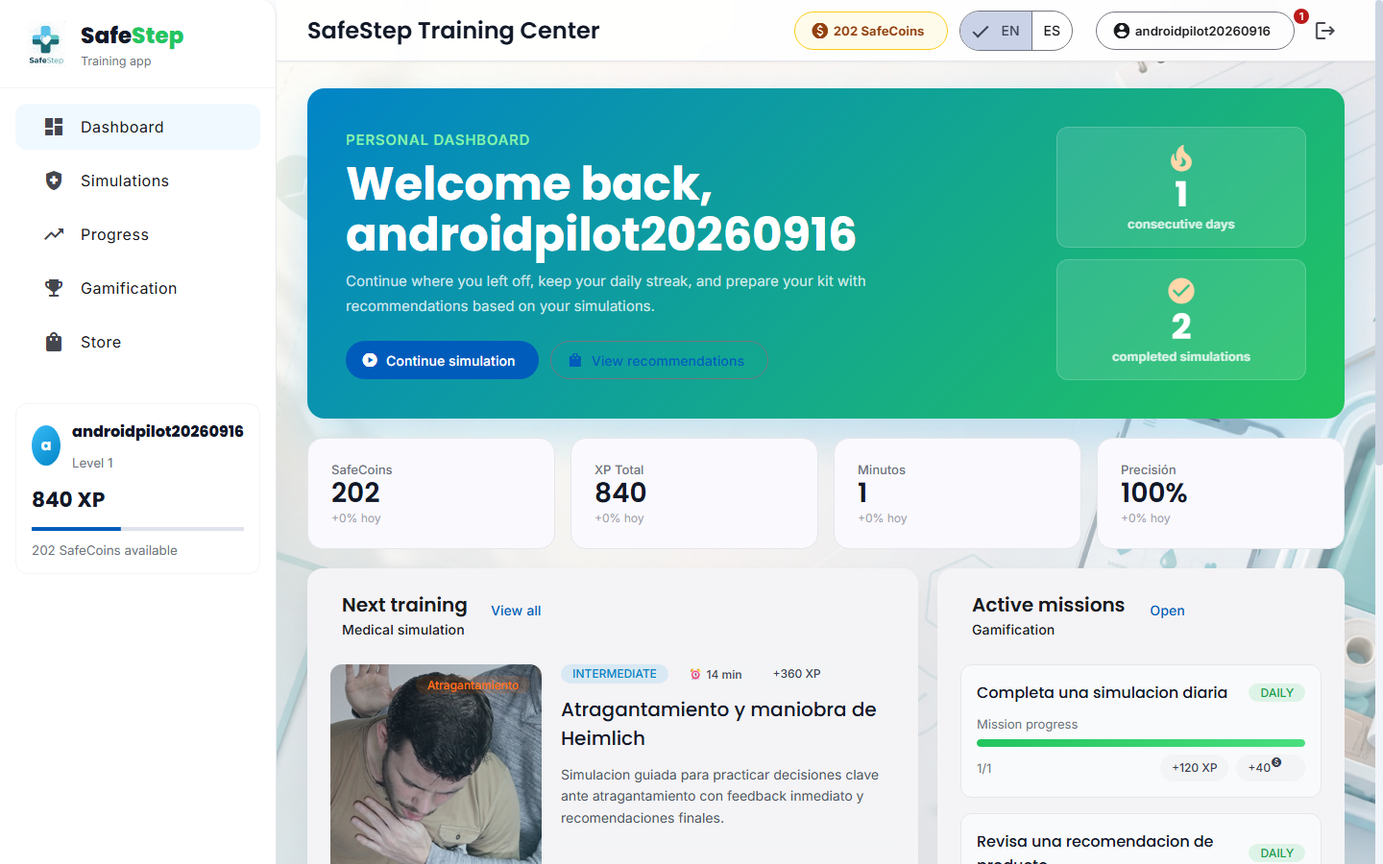
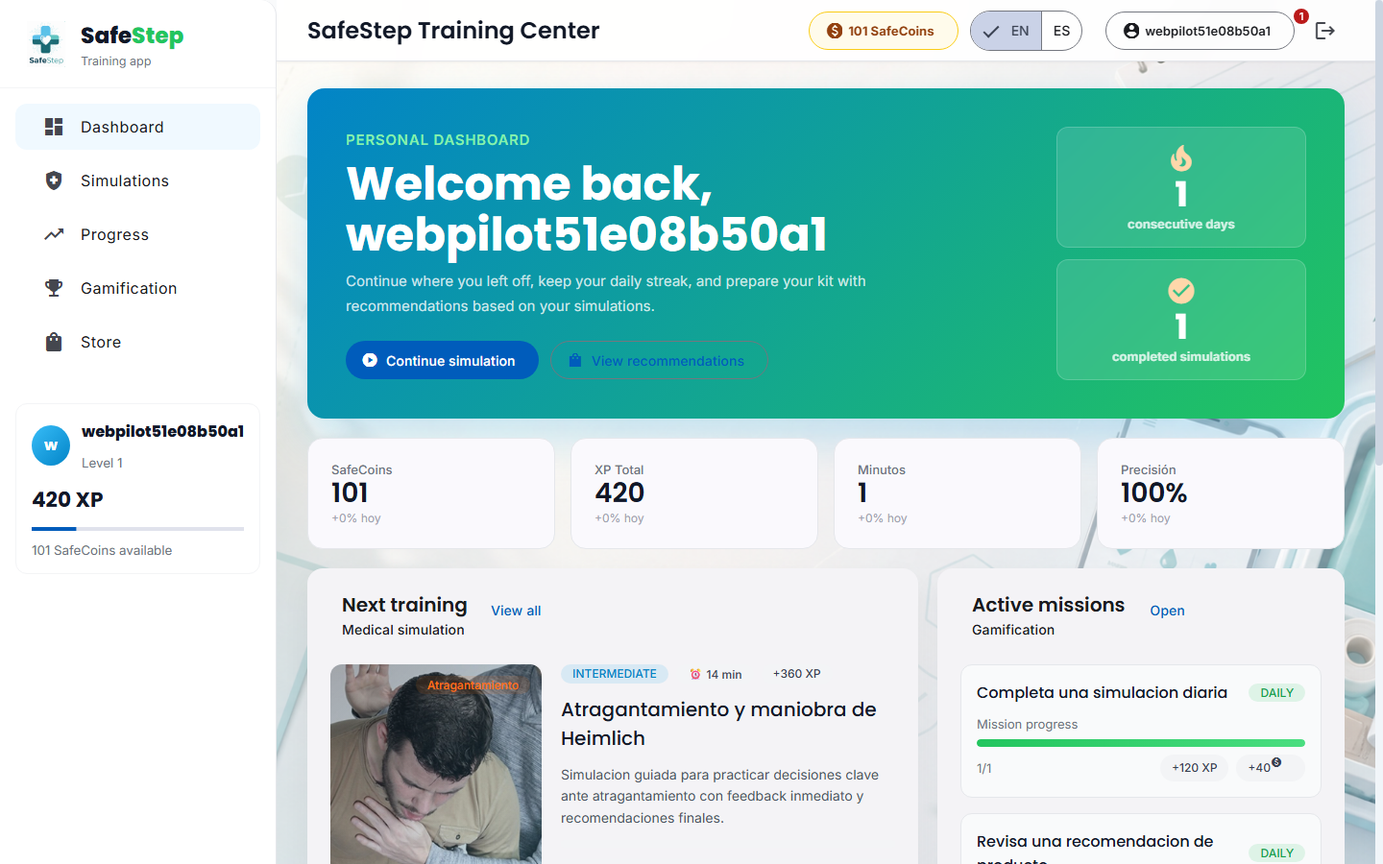
docs: update chapter 5

diff --git a/markdown/content/chapter-5/5-2-Product-Implementation-Deployment.md b/markdown/content/chapter-5/5-2-Product-Implementation-Deployment.md
@@ -29,39 +29,80 @@ La siguiente secuencia es un **backlog de implementación**, no una retrospectiv
 | Sprint nuevo | Goal y criterio de aceptación propuestos | Historias/tareas principales | Evidencia de cierre exigida | Estado |
 |---|---|---|---|---|
 | 1 — línea base y contratos | Poder compilar y probar web/API, identificar desviaciones y acordar contratos Android. | Auditoría de repositorios, secretos, OpenAPI, i18n/a11y, pruebas existentes, tablero. | Board, planning, LACX, PR, logs de pruebas, lista priorizada de defectos. | En curso; el board y la asignación son pendientes. |
-| 2 — Android e integración | Un usuario puede registrarse, practicar una simulación y consultar su progreso/catálogo en Android. | App Kotlin/Compose, cliente API, pruebas unitarias/UI, manejo de errores. | APK de prueba, captura o video en dispositivo, tests y commits. | En curso; no declarar completado antes de ejecutar en dispositivo. |
+| 2 — Android e integración | Un usuario puede registrarse, practicar una simulación y consultar su progreso/catálogo en Android. | App Kotlin/Compose, cliente API, pruebas unitarias/UI, manejo de errores. | APK de prueba, captura o video en dispositivo, tests y commits. | Recorrido local ejecutado en emulador; faltan board, PR, pruebas de errores y despliegue compartido. |
 | 3 — estabilización y entrega | Los productos principales funcionan en los destinos publicados y su evidencia es trazable. | Correcciones, despliegues, acuerdo SaaS aprobado, seguridad, video actual. | URL verificadas, smoke tests, capturas, video, colaboración y retrospectiva. | Pendiente. |
 
 **Plantilla obligatoria por sprint.** Registrar número y fechas; objetivo SMART; *velocity* y suma de puntos; tabla `Story ID | Título | Task ID | Descripción | Horas | Responsable | Estado`; URL pública y captura del board; tabla de commits `Repositorio | Rama | Commit | Mensaje | Fecha`; pruebas asociadas a historia; capturas y video de ejecución; endpoints OpenAPI añadidos; despliegue; LACX y retrospectiva. No inferir horas o puntos a partir de la cantidad de commits. Las tareas de seguridad y documentación que no dependan de una historia deben etiquetarse como tareas técnicas.
 
-**Registro técnico inicial — 16/09/2026:** `mvn test -q` terminó con **41 pruebas, 0 fallos, 0 errores** en 14 suites del backend. `npm test -- --watch=false` terminó con **2 pruebas aprobadas** en una suite del frontend. `npm run build` generó el frontend, con aviso: el bundle inicial excede en 30,08 kB el presupuesto de 700 kB. `npm ci` reportó 24 alertas de dependencias (1 baja, 12 moderadas, 11 altas); deben revisarse y priorizarse, sin aplicar `npm audit fix` a ciegas. Estos resultados locales no sustituyen un pipeline ni una prueba de extremo a extremo.
+**Sprint Planning y trazabilidad.** Los trabajos técnicos que siguen se ejecutaron para preparar el producto, pero no se atribuyen retroactivamente a una reunión o Sprint formal. Antes de incorporar cada Sprint a la entrega, el equipo completará el cuadro exigido por el statement: `Date | Time | Location | Prepared By | Attendees | Sprint anterior: review | Sprint anterior: retrospective | Sprint Goal | Velocity | Sum of Story Points`. También incorporará la URL pública y una captura del board, la matriz LACX `Integrante y GitHub | Aspecto 1 L/C | Aspecto 2 L/C`, y la tabla de tareas `Story ID | Story Title | Task ID | Task Title | Description | Estimation (Hours) | Assigned To | Status`. Los campos de personas, horas, puntos y fechas permanecen sin asignar hasta la planificación real.
+
+### Sprint 1 — línea base y contratos
+
+*Goal propuesto:* que el equipo pueda reproducir la compilación y las pruebas de web/API, y que una cuenta común no pueda modificar catálogos. El evento de confirmación es `mvn package`, `npm run build`, pruebas automatizadas y smoke test local aprobados. La fecha de cierre, la velocidad y las historias seleccionadas deben acordarse en el board; las tareas siguientes aún no constituyen un Sprint Backlog aprobado.
+
+| Task técnica propuesta | Resultado comprobado al 16/09/2026 | Pendiente para cierre del Sprint |
+|---|---|---|
+| Baseline web/API | 42 pruebas API y 2 web aprobadas; ambos productos compilan. | Vincular tests con historias y registrar commits/PR. |
+| Contratos y persistencia | Smoke test local de alta, sesión, simulaciones, intento, progreso, catálogo y OpenAPI. | Publicar entorno de prueba y ejemplos de request/response por endpoint. |
+| Seguridad de contenido | Mutaciones administrativas restringidas en API y rutas/controles ocultos en web para `ROLE_USER`. | Revisar permisos de administrador y ejecutar análisis estático. |
+| Deuda y riesgos | Inventario de dependencias, i18n parcial, bundle sobre presupuesto y secretos históricos. | Priorizar en el board; rotar secretos en el proveedor. |
+
+### Sprint 2 — Android e integración
+
+*Goal propuesto:* que una persona pueda iniciar sesión, realizar una práctica y consultar su progreso desde Android con datos persistidos. Un recorrido con cuenta ficticia en emulador y API/PostgreSQL locales confirmó el flujo básico; no equivale a cierre de Sprint sin planificación, pruebas negativas y revisión del equipo.
+
+| Task técnica propuesta | Resultado comprobado al 16/09/2026 | Pendiente para cierre del Sprint |
+|---|---|---|
+| Cliente Android Kotlin/Compose | Login, registro, listado, detalle, resultado, progreso y catálogo implementados. | Asociar nuevas historias y publicar repositorio remoto. |
+| Pruebas y artefacto | 2 pruebas unitarias, 1 prueba de UI y APK debug reproducible. | Añadir escenarios de errores/red y PR revisado. |
+| Integración local | Capturas de recorrido con API/PostgreSQL local. | Repetir contra entorno compartido, registrar versión y test de sistema. |
+
+### Sprint 3 — estabilización y entrega
+
+*Goal propuesto:* ofrecer landing, web, API y APK de prueba en versiones identificables, con recorrido y evidencia reproducibles para revisión del docente. Su aceptación requerirá URL, commit, fecha, capturas, pruebas de flujos positivos/negativos y video nuevo; actualmente está **pendiente**. Se priorizarán despliegue, accesibilidad/i18n, vulnerabilidades, términos del piloto aprobados, colaboración, retrospectiva y testimonio consentido.
+
+**Evidencia que debe añadirse por cada Sprint.** (a) *Development y Testing Suite Evidence:* tablas separadas con `Repository | Branch | Commit Id | Commit Message | Commit Message Body | Committed on`; relacionar pruebas unitarias con clases y comportamientos, e integración/BDD con historias y archivos `.feature`. (b) *Execution Evidence:* capturas de vistas y video de navegación del Sprint. (c) *Services Documentation Evidence:* para cada endpoint, verbo, ruta, parámetros, ejemplo de respuesta, enlace OpenAPI local o publicado y captura con datos de muestra; incluir commits del backend. (d) *Software Deployment Evidence:* cambios de configuración y capturas del proveedor para landing, web y API. (e) *Team Collaboration Insights:* analíticas GitHub del período, interpretación por integrante, LACX y retrospectiva. Se completarán con hechos y enlaces del Sprint real, no con cifras heredadas.
+
+**Registro técnico inicial — 16/09/2026:** `mvn test -q` terminó con **42 pruebas, 0 fallos, 0 errores** en 14 suites del backend y `mvn package -q` generó el artefacto correctamente. `npm test -- --watch=false` terminó con **2 pruebas aprobadas** en una suite del frontend. `npm run build` generó el frontend, con aviso: el bundle inicial excede en 30,28 kB el presupuesto de 700 kB. `npm ci` reportó 24 alertas de dependencias (1 baja, 12 moderadas, 11 altas); deben revisarse y priorizarse, sin aplicar `npm audit fix` a ciegas. Estos resultados locales no sustituyen un pipeline.
 
 ## 5.2.2. Implemented Landing Page Evidence
 
-La landing actual incluye `index.html`, `about.html`, CSS y JavaScript, secciones de propuesta de valor, simulaciones, gamificación, catálogo y preguntas frecuentes. La implementación es responsive según su código y antecedentes; **aún falta capturar y probar la versión de este repositorio** en anchuras desktop y móvil y verificar la URL pública de la organización actual.
+La landing actual incluye `index.html`, `about.html`, CSS y JavaScript, secciones de propuesta de valor, simulaciones, gamificación, catálogo y preguntas frecuentes. Se revisaron sus textos para retirar cifras de éxito, testimonios, certificaciones y disponibilidad sin respaldo. Los precios y productos visibles son ilustrativos para el piloto y los enlaces legales permanecen marcados «en revisión». Se capturó la versión local en Chrome a 1440 × 900 y 390 × 844 píxeles el 16/09/2026. **No se ha comprobado que estas capturas correspondan a la URL pública.**
 
 | Evidencia a conservar | Relación con el producto | Estado |
 |---|---|---|
-| Capturas del hero, navegación, simulaciones, FAQ y footer en desktop/móvil, con dimensiones y fecha | Historias de landing US47–US53 y relacionadas | Pendiente de captura actual |
+| Capturas del hero en [desktop](../../assets/images/chapter-5/landing-local-desktop-2026-09-16.png) y [móvil](../../assets/images/chapter-5/landing-local-mobile-2026-09-16.png), con dimensiones y fecha | Historias de landing US47–US53 y relacionadas | Capturadas localmente; faltan recorridos de navegación, FAQ y footer. |
 | URL y commit de publicación; comprobación de enlaces CTA hacia la web | Despliegue y recorrido del visitante | Pendiente de verificación |
 | Cambio de idioma `en`/`es`, semántica, foco y teclado | i18n/a11y exigidos por el statement | Pendiente; los HTML actuales declaran `lang="es"` |
 | Enlace accesible a Terms and Conditions tras aprobación del texto | Acuerdo SaaS | Pendiente de revisión y publicación |
 
 Las imágenes `landing-deployed.png` y otras capturas de `assets/images/chapter-5` pertenecen al informe anterior. Pueden ilustrar el As-Is, pero no se usarán como prueba de un despliegue nuevo sin verificar que corresponden al commit y la URL actuales.
 
+![Landing SafeStep en Chrome, anchura desktop](../../assets/images/chapter-5/landing-local-desktop-2026-09-16.png)
+
+*Figura 5.1. Landing local en escritorio, 16/09/2026; no es evidencia de publicación.*
+
+![Landing SafeStep en Chrome, anchura móvil](../../assets/images/chapter-5/landing-local-mobile-2026-09-16.png)
+
+*Figura 5.2. Landing local en viewport móvil, 16/09/2026.*
+
 ## 5.2.3. Implemented Frontend-Web Application Evidence
 
-El repositorio actual implementa rutas de autenticación, dashboard, simulaciones, progreso/estadísticas, gamificación y comercio. Contiene recursos `en.json` y `es.json`, y una configuración de API para desarrollo y producción. La compilación y dos pruebas unitarias pasaron localmente el 16/09/2026; todavía falta demostrar los flujos integrados contra el backend y el despliegue actual.
+El repositorio actual implementa rutas de autenticación, dashboard, simulaciones, progreso/estadísticas, gamificación y comercio. Contiene recursos `en.json` y `es.json`, y una configuración de API para desarrollo y producción. La compilación y dos pruebas unitarias pasaron localmente el 16/09/2026. En Chrome se inició sesión con una cuenta ficticia contra la API y PostgreSQL locales: el dashboard mostró un intento previamente registrado mediante la API, con 1 simulación completada, 420 XP y 101 monedas. Se verificó además que esa cuenta `ROLE_USER` no ve el control de administración y que `/app/simulations/admin` redirige al dashboard. Esto **no** equivale a un E2E completo de resolución desde la interfaz ni a un despliegue verificado.
 
 | Flujo a evidenciar | Captura y comprobación requeridas | Estado |
 |---|---|---|
-| Registro/inicio de sesión y cierre | Formulario, errores de validación, respuesta de la API, ruta protegida | Código disponible; integración pendiente de prueba |
-| Selección y resolución de simulación | Catálogo, detalle, opciones, resultado, persistencia del intento | Código disponible; E2E pendiente |
-| Progreso, gamificación y estadísticas | Valores del usuario antes/después de un intento | Código disponible; E2E pendiente |
+| Registro/inicio de sesión y cierre | Formulario, errores de validación, respuesta de la API, ruta protegida | Inicio de sesión local comprobado; faltan errores y cierre de sesión en navegador. |
+| Selección y resolución de simulación | Catálogo, detalle, opciones, resultado, persistencia del intento | [Lista local capturada](../../assets/images/chapter-5/web-simulations-local-2026-09-16.png); resolución web E2E pendiente. |
+| Progreso, gamificación y estadísticas | Valores del usuario antes/después de un intento | [Dashboard local](../../assets/images/chapter-5/web-dashboard-local-2026-09-16.png) refleja un intento persistido por API; faltan pruebas de todas las vistas. |
 | Catálogo y checkout de prueba | Producto, carrito, redirección/resultado de Stripe en modo prueba | Código disponible; no usar pagos reales |
-| i18n, accesibilidad y responsive | Capturas `en`/`es`, teclado, foco, lector de pantalla y anchuras móvil/desktop | Revisión pendiente |
+| i18n, accesibilidad y responsive | Capturas `en`/`es`, teclado, foco, lector de pantalla y anchuras móvil/desktop | Capturas [ES](../../assets/images/chapter-5/web-dashboard-local-2026-09-16.png), [EN](../../assets/images/chapter-5/web-dashboard-en-local-2026-09-16.png), [login desktop](../../assets/images/chapter-5/web-login-local-desktop-2026-09-16.png) y [login móvil](../../assets/images/chapter-5/web-login-local-mobile-2026-09-16.png); traducción inglesa parcial y auditoría a11y pendientes. |
 
 Antes de registrar «desplegado», se debe asociar cada captura con commit, URL, fecha, navegador y datos de prueba. El aviso del presupuesto del bundle y las alertas de dependencias son hallazgos de calidad pendientes, no fallas ocultas.
+
+![Dashboard web local con progreso de una cuenta de prueba](../../assets/images/chapter-5/web-dashboard-local-2026-09-16.png)
+
+*Figura 5.3. Dashboard web servido localmente en Chrome, con API y PostgreSQL locales; cuenta ficticia y un intento de prueba.*
 
 ## 5.2.4. Acuerdo de Servicio - SaaS
 
@@ -85,39 +126,47 @@ Se inició un cliente **Android nativo** en el repositorio Git local `safestept-
 |---|---|
 | Código y correspondencia con historias | Código local implementado; asignar IDs de historias Android y PR cuando el equipo incorpore el repositorio al tablero. |
 | Pruebas del cálculo de puntuación | **2 pruebas unitarias aprobadas** con `testDebugUnitTest` el 16/09/2026. En Windows se ejecutaron desde una unidad `subst` ASCII debido a la ruta local con caracteres no ASCII. |
[1 lines of base64/hex data omitted]
-| Ejecución en emulador/dispositivo | **1 prueba de interfaz aprobada** en Pixel_7_sem2 (Android 13); instalación y arranque comprobados. [Captura de pantalla inicial](../../assets/images/chapter-5/android-login-2026-09-16.png). Pendientes las capturas de simulación, resultado, progreso, catálogo y estados de error con API real. |
[1 lines of base64/hex data omitted]
+| Ejecución en emulador/dispositivo | **1 prueba de interfaz aprobada** en Pixel_7_sem2 (Android 13). Con cuenta ficticia se ejecutó inicio de sesión, listado, detalle, resolución, resultado, progreso y catálogo frente a la API con PostgreSQL locales. Se conservan [inicio](../../assets/images/chapter-5/android-login-2026-09-16.png), [listado](../../assets/images/chapter-5/android-simulations-2026-09-16.png), [detalle](../../assets/images/chapter-5/android-simulation-detail-2026-09-16.png), [resultado](../../assets/images/chapter-5/android-result-2026-09-16.png), [progreso](../../assets/images/chapter-5/android-progress-2026-09-16.png) y [catálogo](../../assets/images/chapter-5/android-catalog-2026-09-16.png). Faltan pruebas de errores y API pública. |
 | Publicación del repositorio y release | Pendiente de crear remoto de la organización, revisión por PR y distribución controlada del APK. |
 
-La decisión del equipo es **Android solamente**. Los prototipos iOS del capítulo IV no demuestran una app iOS implementada; esta limitación y su posible impacto en la evaluación deben validarse con el docente. Una compilación sin ejecución integrada tampoco demuestra que el flujo completo funcione con PostgreSQL y la API desplegada.
+La decisión del equipo es **Android solamente**. Los prototipos iOS del capítulo IV no demuestran una app iOS implementada; esta limitación y su posible impacto en la evaluación deben validarse con el docente. El recorrido Android sí se ejecutó contra PostgreSQL local, pero falta repetirlo contra la versión que se publique.
 
 ![Pantalla inicial del cliente Android en emulador Pixel 7, sin datos de usuario](../../assets/images/chapter-5/android-login-2026-09-16.png)
 
-*Figura 5.1. Pantalla inicial de SafeStep Android, compilación debug local del 16/09/2026. La URL `10.0.2.2` apunta al host del emulador y no demuestra un backend público.*
+*Figura 5.4. Pantalla inicial de SafeStep Android, compilación debug local del 16/09/2026. La URL `10.0.2.2` apunta al host del emulador y no demuestra un backend público.*
+
+![Resultado de una simulación en Android](../../assets/images/chapter-5/android-result-2026-09-16.png)
+
+*Figura 5.5. Resultado de una simulación ejecutada desde Android con datos de prueba y API local.*
+
+![Progreso obtenido en Android después de las simulaciones](../../assets/images/chapter-5/android-progress-2026-09-16.png)
+
+*Figura 5.6. Progreso consultado por Android desde la API local; no es una medición con participantes reales.*
 
 ## 5.2.6. Implemented RESTful API and/or Serverless Backend Evidence
 
-El backend actual es una API Spring Boot con persistencia PostgreSQL, recursos IAM, perfiles, simulaciones e intentos, analítica, gamificación y comercio. Los controladores y modelos están en el [repositorio backend](https://github.com/1ASI0732-2620-9090-Grupo-4/safestept-backend). Se ejecutaron 41 pruebas de backend sin fallos el 16/09/2026; esto verifica los casos cubiertos por esas pruebas, **no** el despliegue, los pagos ni todos los endpoints. Para cada sprint se añadirán capturas de peticiones con datos ficticios, respuesta esperada y respuesta real, referencia a commit y entorno.
+El backend actual es una API Spring Boot con persistencia PostgreSQL, recursos IAM, perfiles, simulaciones e intentos, analítica, gamificación y comercio. Los controladores y modelos están en el [repositorio backend](https://github.com/1ASI0732-2620-9090-Grupo-4/safestept-backend). Se ejecutaron **42 pruebas sin fallos** el 16/09/2026. Un smoke test adicional contra PostgreSQL local creó una cuenta ficticia (201), inició sesión con rol `ROLE_USER`, leyó 18 simulaciones y 32 productos, registró un intento (201), recuperó un historial y progreso con una simulación completada, obtuvo OpenAPI (200) y confirmó que el borrado de una simulación con ese usuario devuelve **403**. El script reproducible es `scripts/smoke-api.ps1` del backend. Estos resultados verifican ese entorno local, **no** el despliegue, pagos ni todos los endpoints.
 
 La configuración de producción ahora requiere `DATABASE_USER`, `DATABASE_PASSWORD` y `JWT_SECRET` por variables de entorno; no se documentan valores. El Dockerfile compila con pruebas y usa perfil de producción. Debe verificarse su construcción en el pipeline y la conectividad con una base de datos de prueba antes de publicar. Los secretos que aparecieron antes en archivos versionados deben **rotarse** y retirarse del proveedor; el cambio del archivo actual no borra el historial de Git.
 
 **Limitación de integridad:** el contrato de intentos acepta `score` y `correctSteps` calculados por el cliente. Antes de usar estas métricas como resultado experimental o para recompensas sensibles, el backend debe verificar las respuestas contra la simulación o establecer otro mecanismo de validación; las pruebas actuales no demuestran esa integridad.
 
-| Recorrido a comprobar | Prueba y evidencia pendiente |
+| Recorrido a comprobar | Estado y evidencia |
 |---|---|
-| Alta, inicio, renovación y cierre de sesión | Respuestas 2xx y errores 4xx; ausencia de datos sensibles en logs/capturas. |
-| Consultar simulación, enviar intento, leer progreso | Persistencia real, puntuación, perfil del usuario y comportamiento ante error de red. |
+| Alta, inicio, renovación y cierre de sesión | Alta 201 e inicio de sesión comprobados localmente; renovación, cierre y errores 4xx pendientes en este recorrido. |
+| Consultar simulación, enviar intento, leer progreso | Consulta y persistencia en PostgreSQL local comprobadas con usuario ficticio; pendiente error de red y validación del puntaje en servidor. |
 | Catálogo y pago de prueba | Producto, orden y webhook con credenciales **test**; nunca pagos reales. |
-| Administrar contenido | Autorización por rol y rechazo de usuario normal. |
+| Administrar contenido | Mutaciones de simulaciones, productos y misiones restringidas a `ROLE_ADMIN` en API; prueba de integración y smoke test confirman 403 para usuario normal. Falta comprobar cada acción de administrador legítimo. |
 
 ## 5.2.7. RESTful API documentation
 
-La documentación OpenAPI se genera mediante `springdoc`; la ruta esperada en una instancia activa es `/swagger-ui/index.html` y el JSON se obtiene en `/v3/api-docs`. Antes de colocar enlaces públicos, abrir esas rutas en el despliegue actual y registrar URL, fecha, versión y captura. La matriz siguiente se basa en controladores del código, no en una API publicada comprobada.
+La documentación OpenAPI se genera mediante `springdoc`; la ruta esperada en una instancia activa es `/swagger-ui/index.html` y el JSON se obtiene en `/v3/api-docs`. Este JSON devolvió **200 en la instancia local** el 16/09/2026. Antes de colocar enlaces públicos, abrir esas rutas en el despliegue actual y registrar URL, fecha, versión y captura. La matriz siguiente se basa en controladores del código, no en una API publicada comprobada.
 
 | Método y ruta | Entrada principal | Respuesta funcional | Uso / prueba asociada |
 |---|---|---|---|
 | `POST /api/v1/authentication/sign-up` | Usuario y contraseña | Cuenta creada o error de validación | Registro web/Android; alta pública solo `ROLE_USER`. |
-| `POST /api/v1/authentication/sign-in` | Credenciales | Tokens de acceso/renovación | Autenticación y acceso a rutas protegidas. |
+| `POST /api/v1/authentication/sign-in` | Credenciales | Tokens de acceso/renovación y roles | Autenticación y acceso a rutas protegidas. |
 | `POST /api/v1/authentication/refresh-token` | Refresh token | Nuevo par de tokens o rechazo | Continuidad de sesión. |
 | `POST /api/v1/authentication/logout` | Refresh token | Revocación o rechazo | Cierre de sesión. |
 | `GET /api/v1/simulations` | Consulta | Lista de simulaciones | Catálogo de práctica web/Android. |

diff --git a/markdown/content/chapter-5/5-1-software-configuration-management.md b/markdown/content/chapter-5/5-1-software-configuration-management.md
@@ -17,7 +17,7 @@ La tabla distingue productos constatados en el código o en este entorno de herr
 | Persistencia | PostgreSQL; cliente local 18.4 | Datos transaccionales de la API | [PostgreSQL](https://www.postgresql.org) | El proveedor de producción debe confirmarse |
 | Documentación API | springdoc OpenAPI 3.0.3 / Swagger UI | Contratos y prueba interactiva de endpoints | [OpenAPI](https://spec.openapis.org/oas/latest.html) | Dependencia declarada en `pom.xml`; URL pública pendiente de verificar |
 | Pruebas web/API | Vitest 4.0.8; Spring Boot Starter Test / JUnit | Pruebas automatizadas y resultados reproducibles | [Vitest](https://vitest.dev); [JUnit](https://junit.org/junit5/) | Dependencias declaradas; resultados en 5.2 y capítulo VI |
-| Android nativo | SDK 37, Android Gradle Plugin 9.3.2, Kotlin Compose Compiler 2.3.21, Gradle 9.5 | Implementar y probar la app móvil | Proyecto local `safestept-android`; [Android Developers](https://developer.android.com) | Proyecto creado; ejecución integrada y publicación pendientes |
+| Android nativo | SDK 37, Android Gradle Plugin 9.3.2, Kotlin Compose Compiler 2.3.21, Gradle 9.5 | Implementar y probar la app móvil | Proyecto local `safestept-android`; [Android Developers](https://developer.android.com) | Compilación, pruebas y ejecución con API local verificadas; publicación pendiente |
 | Control de versiones | Git/GitHub | Ramas, PR, commits y versiones | [Git](https://git-scm.com); [GitHub](https://github.com) | Cuatro repositorios previos y proyecto Android local disponibles |
 | Despliegue | Docker y configuración de GitHub Pages del frontend | Empaquetado y publicación | [Docker](https://docs.docker.com); [GitHub Pages](https://pages.github.com) | Los destinos actuales deben verificarse antes de afirmar despliegue |
 
@@ -51,6 +51,8 @@ Las claves, nombres de clases, métodos, rutas y mensajes técnicos se escriben 
 | Kotlin/Android | Los mismos criterios de nombres Kotlin; estados UI separados del acceso a datos; textos en recursos localizables; pruebas unitarias y de interfaz Compose antes del APK. |
 | SQL | Tablas/columnas en `snake_case`, PK y FK explícitas, sin contraseñas ni datos personales en scripts de ejemplo. |
 | Gherkin | `Feature`, `Scenario`, `Given/When/Then` con comportamiento observable, uno por intención de negocio; enlazar cada escenario a una User Story. Los archivos `.feature` aún no están presentes en los repositorios actuales. |
+
+Las referencias adoptadas son [Google HTML/CSS Style Guide](https://google.github.io/styleguide/htmlcssguide.html) y [Google JavaScript Style Guide](https://google.github.io/styleguide/jsguide.html) para la landing; [Angular coding style guide](https://angular.dev/style-guide) y la [documentación TypeScript](https://www.typescriptlang.org/docs/handbook/) para la web; [Google Java Style Guide](https://google.github.io/styleguide/javaguide.html) para la API; [Android Kotlin style guide](https://developer.android.com/kotlin/style-guide) para Android; y la [referencia Gherkin de Cucumber](https://cucumber.io/docs/gherkin/reference/) para escenarios BDD. Adoptarlas no equivale a afirmar que todos los archivos actuales ya las cumplen: esa verificación pertenece a las pruebas estáticas del capítulo VI.
 
 El statement menciona guías Vue y C# porque prescribe esas tecnologías. El equipo conserva Angular y Spring Boot por decisión de proyecto, pero **requiere confirmar con el docente** la aceptación de esta desviación; el informe no debe afirmar conformidad técnica completa antes de ello.
 
